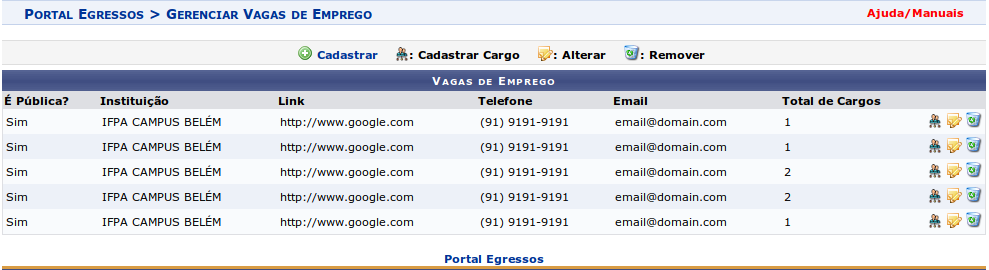
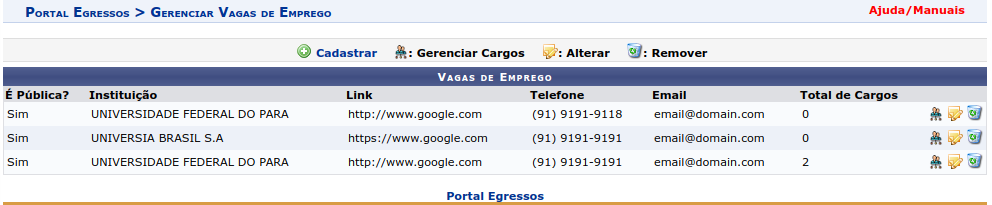
adicionada documentação sobre vagas de emprego e corrigidos typos

diff --git a/source/vagas_emprego.rst b/source/vagas_emprego.rst
@@ -41,3 +41,92 @@ mensagem de erro, conforme imagem a seguir:
 Após preencher corretamente todos os campos requeridos, o usuário clicar no botão *Cadastrar* para cadastrar
 uma nova vaga de emprego. Se não houverem erros, o sistema salva a nova vaga de emprego e redireciona
 para a página de listagem de vagas descrita anteriormente.
+
+Editar Vaga de Emprego
+----------------------
+
+Para iniciar o processo de edição, o usuário deve clicar no botão *alterar* da respectiva vaga de emprego que deve ser editada.
+
+.. image:: _static/img/alterar_vaga_emprego.png
+
+Após a vaga de emprego ser selecionada, o sistema carrega a página contendo o formulário de nova vaga de emprego com os campos
+preenchidos. O usuário altera os dados a seu critério e em seguida clicar no botão *Atualizar*. Se os campos
+estivem com os formatos corretos, o sistema atualiza a vaga de emprego e redireciona para a página contendo a listagem de
+todas a vagas de emprego e ações.
+Os botões *voltar* e *cancelar* funcionam de forma idêntica ao do formulário da seção `Cadastrar Novo CGIPES`_.
+
+.. image:: _static/img/atualizar_vaga_emprego_form.png
+
+Deletar Vaga de Emprego
+-----------------------
+
+Para deletar uma vaga de emprego, deve-se clicar no botão *Remover* da respectiva vaga de emprego na página de listagem.
+Uma mensagem de confirmação é exibida ao usuário antes do sistema efetivamente apagar a vaga de emprego. Uma vaga de emprego não pode
+ser removida se possuir cargos cadastrados.
+
+.. image:: _static/img/remover_vaga_emprego.png
+
+Gerenciamento de cargos
+-----------------------
+
+Para acessar a página de gerenciamento de cargos, basta clicar no botão *Gerenciar Cargos* da respectiva vaga de emprego.
+
+.. image:: _static/img/gerenciar_cargos.png
+
+A página consiste em duas seções, uma contendo o formulário de inclusão de um novo cargo para uma determinada vaga de emprego
+e outra, abaixo, contendo a listagem de cargos para aquela vaga de emprego:
+
+.. image:: _static/img/cargos_form.png
+
+.. _cadastro_novo_cargo:
+
+Cadastro de Novo Cargo
+**********************
+
+Todos os campos marcados com ``*`` são obrigatórios. O campo *município* é do tipo *autocompletar*, como descrito na
+seção :ref:`cadastro_novo_membro_cgipes`.
+
+O campo *Áreas do CNPQ* é formado por 3 seções. Uma listagem de áreas do CNPQ do lado esquerdo, uma lista de botões de ação
+no centro e uma lista de áreas do CNPQ do lado direito. **Os items selecionados para o campo são os items que estão
+marcados do lado direito**.
+
+Para **selecionar** um item, primeiramente o usuário clica no
+item do lado esquerdo para marcá-lo (para selecionar múltiplos items, o usuário precisa clicar nos mesmos
+**mantendo a tecla CTRL pressionada**). Em seguida o usuário clica no botão de ação *Selecionar* para mover os items marcados
+do lado esquerdo para o lado direito. Caso o usuário queira selecionar **todos** os items do lado esquerdo, basta
+clicar no botão de ação *Selecionar Tudo*.
+
+Para **deselecionar** um item, primeiramente o usuário clica no
+item do lado direito para marcá-lo (para selecionar múltiplos items, o usuário precisa clicar nos mesmos
+**mantendo a tecla CTRL pressionada**). Em seguida o usuário clica no botão de ação *Remover* para mover os items marcados
+do lado direito para o lado esquerdo. Caso o usuário queira deselecionar **todos** os items do lado direito, basta
+clicar no botão de ação *Remover Tudo*.
+
+Ao clicar no botão *Voltar*, o sistema redireciona para a página de listagem de vagas de emprego.
+
+Após a inserção dos dados corretamente, o usuário clica no botão *Salvar* e um novo cargo é incluído na listagem
+de cargos daquela vaga de emprego.
+
+Editar Cargo
+************
+
+Para editar um cargo, o usuário clica no botão *Alterar Cargo*, do respectivo cargo que se quer editar, a partir
+da seção que contém a listagem de cargos para aquela vaga de emprego.
+
+.. image:: _static/img/alterar_cargo.png
+
+O sistema então carrega o formulário de cadastro preenchido com os dados do cargo que acabou
+de ser selecionado. O usuário então pode editar os campos do formulário seguindo as mesmas recomendações descritas na seção
+`Cadastro de Novo Cargo`_. Após alterar os dados do cargo, o usuário clica no botão *Atualizar*. Se os dados inseridos
+estiverem com os formatos corretos, o sistema atualiza o cargo e atualiza a listagem de cargos daquela vaga de emprgo (agora
+contendo os dados atualizados do cargo que acabou de ser editado).
+
+Remover Cargo
+*************
+
+Para remover um cargo, o usuário clica no botão *Remover Cargo* do respectivo cargo que se quer remover, a
+partir da listagem de cargos.
+
+.. image:: _static/img/remover_cargo.png
+
+O sistema exibe uma mensagem de confirmação antes de remover o cargo daquela vaga de emprego.

diff --git a/source/cgipes.rst b/source/cgipes.rst
@@ -53,7 +53,7 @@ preenchidos. O usuário altera os dados a seu critério e em seguida clicar no b
 estivem com os formatos corretos, o sistema atualiza o CGIPES e redireciona para a página contendo a listagem de todos os CGIPES e ações.
 Os botões *voltar* e *cancelar* funcionam de forma idêntica ao do formulário da seção `Cadastrar Novo CGIPES`_.
 
-.. image:: _static/img/atualizar_cgipes.png
+.. image:: _static/img/atualizar_cgipes_form.png
 
 Deletar CGIPES
 ~~~~~~~~~~~~~~
@@ -66,12 +66,12 @@ antes do sistema efetivamente apagar o CGIPES. Um CGIPES não pode ser removido 
 Gerenciamento de Membros do CGIPES
 ~~~~~~~~~~~~~~~~~~~~~~~~~~~~~~~~~~
 
-Para acessar a página de gerencimento de membros, basta clicar no botão *Gerenciar Membros* do respectivo CGIPES.
+Para acessar a página de gerenciamento de membros, basta clicar no botão *Gerenciar Membros* do respectivo CGIPES.
 
 .. image:: _static/img/membros.png
 
 A página consiste em duas seções, uma contendo o formulário de inclusão de um novo Membro para um determinado CGIPES
-e outra contendo a listagem de membros para aquele CGIPES.
+e outra, abaixo, contendo a listagem de membros para aquele CGIPES:
 
 .. image:: _static/img/membros_form.png
 
